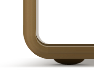
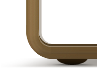
last mile...

Changed region(s): [[0.3158, 0.0, 1.0, 1.0], [0.2316, 0.0, 0.4, 0.7941]]

diff --git a/afm/static/css/style.css b/afm/static/css/style.css
@@ -44,31 +44,67 @@
   position: absolute;
   top: 0;
   left: 0;
-  height: 30px;
+  height: 59px;
   width: 100%;
-  opacity: 0.5;
-  background-color: pink;
 }
-/* line 43, ../sass/style.sass */
+/* line 41, ../sass/style.sass */
+.radio .top .top-left {
+  background-image: url("/static/i/table-top-left.png");
+  width: 52px;
+  background-repeat: no-repeat;
+}
+/* line 46, ../sass/style.sass */
+.radio .top .top-line {
+  background-image: url("/static/i/table-top.png");
+  background-repeat: repeat-x;
+}
+/* line 50, ../sass/style.sass */
+.radio .top .top-right {
+  background-image: url("/static/i/table-top-right.png");
+  width: 52px;
+  background-repeat: no-repeat;
+}
+/* line 55, ../sass/style.sass */
 .radio .bottom {
-  height: 30px;
-  background-color: green;
-  opacity: 0.5;
-  margin-top: -30px;
+  height: 70px;
+  margin: 0 -30px;
+  margin-top: -65px;
 }
-/* line 49, ../sass/style.sass */
+/* line 60, ../sass/style.sass */
+.radio .bottom .inner {
+  height: 70px;
+  width: 100%;
+}
+/* line 64, ../sass/style.sass */
+.radio .bottom .bottom-left {
+  background-image: url("/static/i/table-bottom-left.png");
+  width: 95px;
+  background-repeat: no-repeat;
+}
+/* line 69, ../sass/style.sass */
+.radio .bottom .bottom-line {
+  background-image: url("/static/i/table-bottom.png");
+  background-repeat: repeat-x;
+  background-position: bottom left;
+}
+/* line 74, ../sass/style.sass */
+.radio .bottom .bottom-right {
+  background-image: url("/static/i/table-bottom-right.png");
+  width: 95px;
+  background-repeat: no-repeat;
+}
+/* line 80, ../sass/style.sass */
 .radio .content {
   margin: 0 -30px;
-  border: 1px dashed;
   padding: 0 30px;
 }
 
-/* line 55, ../sass/style.sass */
+/* line 86, ../sass/style.sass */
 .footer {
   clear: both;
 }
 
-/* line 58, ../sass/style.sass */
+/* line 89, ../sass/style.sass */
 body {
   background-color: #453745;
   font-size: 14px;
@@ -81,29 +117,29 @@ body {
   background-size: cover;
 }
 
-/* line 66, ../sass/style.sass */
+/* line 97, ../sass/style.sass */
 a {
   color: white;
   text-decoration: none;
   border-bottom: 1px solid #7f777f;
 }
 
-/* line 71, ../sass/style.sass */
+/* line 102, ../sass/style.sass */
 ul.inline {
   list-style-type: none;
   margin: 0;
   padding: 0;
 }
-/* line 75, ../sass/style.sass */
+/* line 106, ../sass/style.sass */
 ul.inline li {
   float: left;
 }
 
-/* line 78, ../sass/style.sass */
+/* line 109, ../sass/style.sass */
 ul.justified {
   text-align: justify;
 }
-/* line 80, ../sass/style.sass */
+/* line 111, ../sass/style.sass */
 ul.justified li {
   float: none;
   display: inline-block;

diff --git a/afm/static/sass/style.sass b/afm/static/sass/style.sass
@@ -35,20 +35,51 @@
     position: absolute
     top: 0
     left: 0
-    height: 30px
+    height: 59px
     width: 100%
-    opacity: 0.5
-    background-color: pink
+
+    .top-left
+      background-image: url('/static/i/table-top-left.png')
+      width: 52px
+      background-repeat: no-repeat
+
+    .top-line
+      background-image: url('/static/i/table-top.png')
+      background-repeat: repeat-x
+
+    .top-right
+      background-image: url('/static/i/table-top-right.png')
+      width: 52px
+      background-repeat: no-repeat
 
   .bottom
-    height: 30px
-    background-color: green
-    opacity: 0.5
-    margin-top: -30px
+    height: 70px
+    margin: 0 -30px
+    margin-top: -65px
+
+    .inner
+      height: 70px
+      width: 100%
+
+    .bottom-left
+      background-image: url('/static/i/table-bottom-left.png')
+      width: 95px
+      background-repeat: no-repeat
+
+    .bottom-line
+      background-image: url('/static/i/table-bottom.png')
+      background-repeat: repeat-x
+      background-position: bottom left
+
+    .bottom-right
+      background-image: url('/static/i/table-bottom-right.png')
+      width: 95px
+      background-repeat: no-repeat
+
 
   .content
     margin: 0 -30px
-    border: 1px dashed
+    //border: 1px dashed
     padding: 0 30px
 
 

diff --git a/afm/web/templates/index.html b/afm/web/templates/index.html
@@ -51,7 +51,13 @@
         </div-->
 
         <div class="radio">
-            <div class="top"></div>
+            <table class="top">
+                <tr>
+                    <td class="top-left"></td>
+                    <td class="top-line"></td>
+                    <td class="top-right"></td>
+                </tr>
+            </table>
             <div class="back">
             <div class="back-shadow">
                 <div class="content">
@@ -88,7 +94,15 @@
                 </div>
             </div>
             </div>
-            <div class="bottom"></div>
+            <div class="bottom">
+            <table class="inner">
+                <tr>
+                    <td class="bottom-left"></td>
+                    <td class="bottom-line"></td>
+                    <td class="bottom-right"></td>
+                </tr>
+            </table>
+            </div>
         </div>
     </div>
     <div class="footer">
